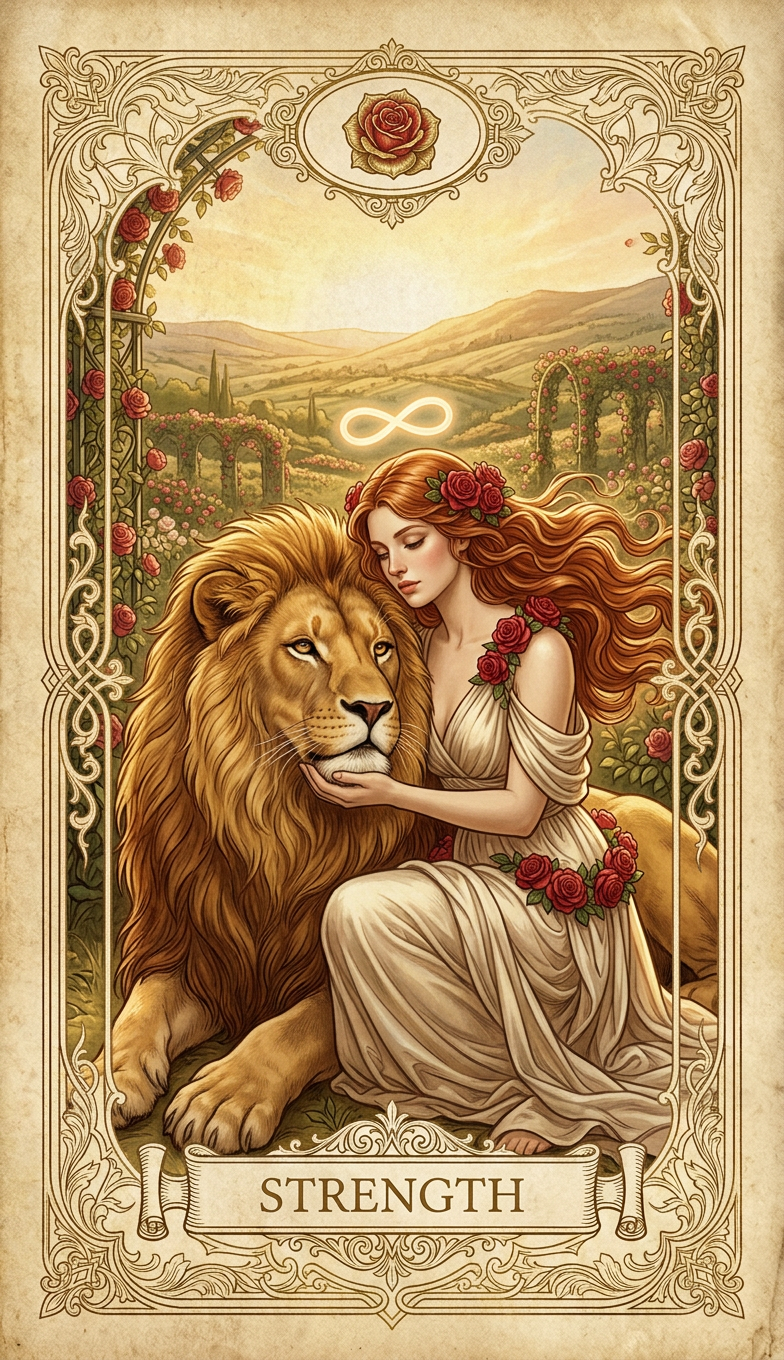
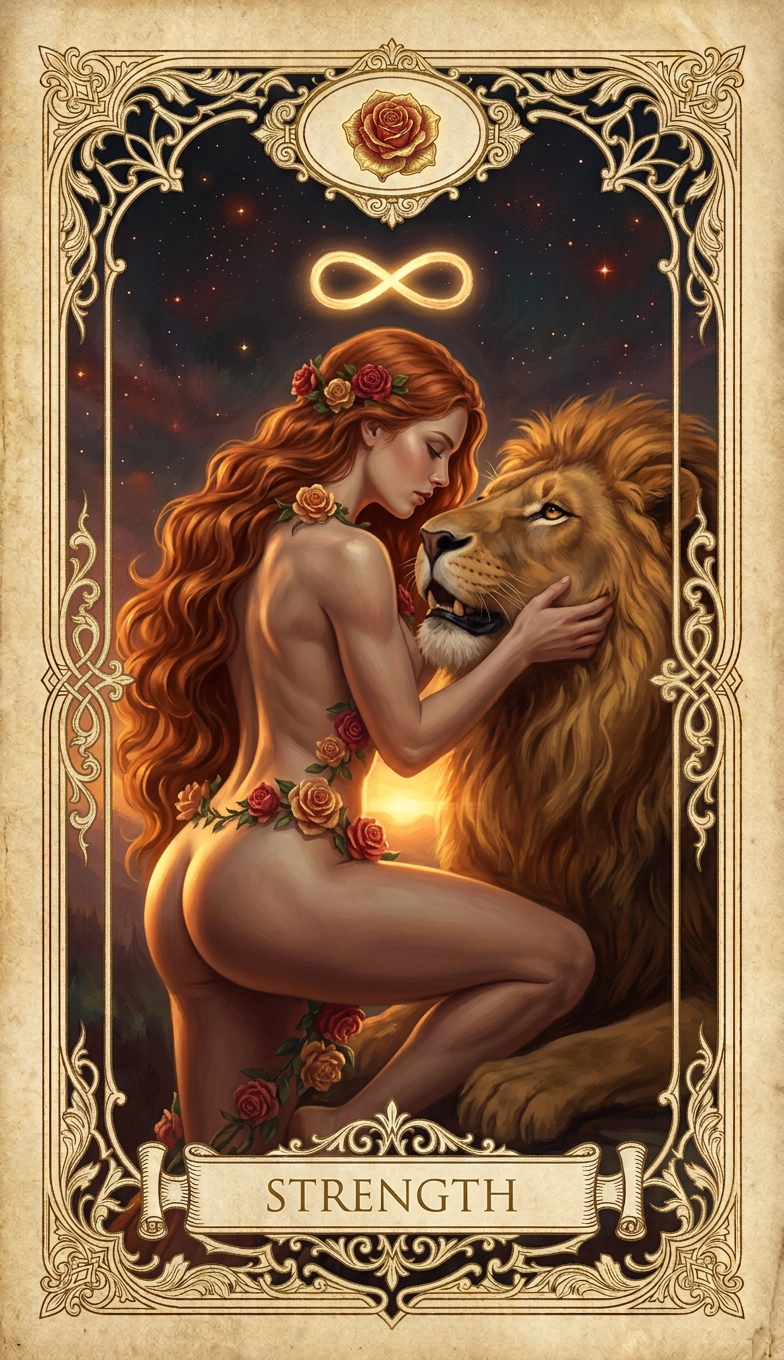
Complete the 22 Major Arcana on the Hermit standard
Redo the final 4 legacy cards: The Fool (00), The Empress (03),
The Sun (19), The World (21) — anchored to The Hermit.
All 22 Major Arcana now follow the Hermit standard (inner image +
outer border, layered depth, sensual fine-art). Frames match the
Hermit at RMSE ~0.020-0.022.

diff --git a/cards/index.html b/cards/index.html
@@ -114,6 +114,22 @@
             </div>
         </div>
         <div class="card-item">
+            <img src="05-hierophant.png" alt="THE HIEROPHANT">
+            <div class="card-details">
+                <div class="card-title">THE HIEROPHANT</div>
+                <div class="card-meta"><strong>Độ tuổi:</strong> 24 years old &bull; <strong>Huy hiệu:</strong> two crossed golden keys</div>
+                <div class="card-scene">a serene 24-year-old female high mystic priestess in rich red-and-gold ceremonial robes, raising one blessing hand, two kneeling female acolytes before her, sacred temple pillars behind</div>
+            </div>
+        </div>
+        <div class="card-item">
+            <img src="06-lovers.png" alt="THE LOVERS">
+            <div class="card-details">
+                <div class="card-title">THE LOVERS</div>
+                <div class="card-meta"><strong>Độ tuổi:</strong> 21 years old &bull; <strong>Huy hiệu:</strong> an apple coiled by a serpent</div>
+                <div class="card-scene">a nude man and a nude woman standing hand in hand beneath a great winged angel, her body turned three-quarters toward the viewer with silk fallen to her hip and his hand at the small of her back, the tree of knowledge with a serpent behind her, the tree of flames behind him</div>
+            </div>
+        </div>
+        <div class="card-item">
             <img src="07-chariot.png" alt="THE CHARIOT">
             <div class="card-details">
                 <div class="card-title">THE CHARIOT</div>
@@ -127,6 +143,70 @@
                 <div class="card-title">STRENGTH</div>
                 <div class="card-meta"><strong>Độ tuổi:</strong> 23 years old &bull; <strong>Huy hiệu:</strong> a red rose</div>
                 <div class="card-scene">a nude woman garlanded with roses, one knee raised, leaning in close to calmly close the jaws of a great golden lion, her bare back arched and her hip lit by low sun, an infinity sign glowing above her head</div>
+            </div>
+        </div>
+        <div class="card-item">
+            <img src="09-hermit.png" alt="THE HERMIT">
+            <div class="card-details">
+                <div class="card-title">THE HERMIT</div>
+                <div class="card-meta"><strong>Độ tuổi:</strong> 23 years old &bull; <strong>Huy hiệu:</strong> a glowing lantern</div>
+                <div class="card-scene">a hermit woman standing on a bare mountain peak under a deep star-filled night sky, holding up a lit lantern with warm golden light pouring out of it, her head and body hooded and wrapped in a single sheet of WHITE TRANSPARENT SILK GAUZE that veils her head and falls in folds around her</div>
+            </div>
+        </div>
+        <div class="card-item">
+            <img src="10-wheel.png" alt="WHEEL OF FORTUNE">
+            <div class="card-details">
+                <div class="card-title">WHEEL OF FORTUNE</div>
+                <div class="card-meta"><strong>Độ tuổi:</strong> 22 years old &bull; <strong>Huy hiệu:</strong> a spoked golden wheel</div>
+                <div class="card-scene">a great spinning wheel of fortune inscribed with mystic letters, a winged female sphinx holding an upright sword atop it, a rising golden serpent on one side and a jackal deity on the other, four winged female watchers at the corners</div>
+            </div>
+        </div>
+        <div class="card-item">
+            <img src="11-justice.png" alt="JUSTICE">
+            <div class="card-details">
+                <div class="card-title">JUSTICE</div>
+                <div class="card-meta"><strong>Độ tuổi:</strong> 24 years old &bull; <strong>Huy hiệu:</strong> balanced golden scales</div>
+                <div class="card-scene">a statuesque bare-shouldered queen, silk sliding off one shoulder to the curve of her breast, a sword upright in one hand and balanced scales in the other, seated on a stone throne between pillars</div>
+            </div>
+        </div>
+        <div class="card-item">
+            <img src="12-hanged.png" alt="THE HANGED MAN">
+            <div class="card-details">
+                <div class="card-title">THE HANGED MAN</div>
+                <div class="card-meta"><strong>Độ tuổi:</strong> 21 years old &bull; <strong>Huy hiệu:</strong> an inverted living branch</div>
+                <div class="card-scene">a serene nude 21-year-old young woman suspended upside-down by one ankle from a living tree shaped like a cross, one leg bent gracefully, a radiant halo of golden light glowing around her head</div>
+            </div>
+        </div>
+        <div class="card-item">
+            <img src="13-death.png" alt="DEATH">
+            <div class="card-details">
+                <div class="card-title">DEATH</div>
+                <div class="card-meta"><strong>Độ tuổi:</strong> 22 years old &bull; <strong>Huy hiệu:</strong> a five-petaled white rose</div>
+                <div class="card-scene">a striking 22-year-old pale female knight in ornate black armor riding a calm pale charger, holding a black banner adorned with a five-petaled white rose, a golden sunrise glowing between twin distant towers</div>
+            </div>
+        </div>
+        <div class="card-item">
+            <img src="14-temperance.png" alt="TEMPERANCE">
+            <div class="card-details">
+                <div class="card-title">TEMPERANCE</div>
+                <div class="card-meta"><strong>Độ tuổi:</strong> 22 years old &bull; <strong>Huy hiệu:</strong> a triangle within a square</div>
+                <div class="card-scene">a graceful winged adult figure with long loosened hair, wearing a sheer antique drape, standing in a THREE-QUARTER VIEW with her body turned toward the viewer, one knee bent with one foot on the rock and the other in the pool, her arms extended to either side pouring water between two golden chalices, irises blooming, warm sepia and ochre light</div>
+            </div>
+        </div>
+        <div class="card-item">
+            <img src="15-devil.png" alt="THE DEVIL">
+            <div class="card-details">
+                <div class="card-title">THE DEVIL</div>
+                <div class="card-meta"><strong>Độ tuổi:</strong> 21 years old &bull; <strong>Huy hiệu:</strong> an inverted pentagram</div>
+                <div class="card-scene">a horned winged female arch-devil upon a dark pedestal; beside her two alluring nude young women arched in golden chains, their bodies glowing in candlelit shadow inside an obsidian cavern</div>
+            </div>
+        </div>
+        <div class="card-item">
+            <img src="16-tower.png" alt="THE TOWER">
+            <div class="card-details">
+                <div class="card-title">THE TOWER</div>
+                <div class="card-meta"><strong>Độ tuổi:</strong> 20 years old &bull; <strong>Huy hiệu:</strong> a jagged lightning bolt</div>
+                <div class="card-scene">a tall stone tower struck by a jagged bolt of lightning, its golden crown toppling in flames, two graceful young women falling through the storm and ash, their bodies illuminated by the brilliant flash</div>
             </div>
         </div>
         <div class="card-item">
@@ -154,11 +234,35 @@
             </div>
         </div>
         <div class="card-item">
+            <img src="20-judgement.png" alt="JUDGEMENT">
+            <div class="card-details">
+                <div class="card-title">JUDGEMENT</div>
+                <div class="card-meta"><strong>Độ tuổi:</strong> 22 years old &bull; <strong>Huy hiệu:</strong> a golden trumpet</div>
+                <div class="card-scene">a radiant winged female angel blowing a golden trumpet with a white banner; below, rising from calm waters, three beautiful nude young women with open arms turning toward the divine light</div>
+            </div>
+        </div>
+        <div class="card-item">
             <img src="21-world.png" alt="THE WORLD">
             <div class="card-details">
                 <div class="card-title">THE WORLD</div>
                 <div class="card-meta"><strong>Độ tuổi:</strong> 22 years old &bull; <strong>Huy hiệu:</strong> a laurel wreath oval</div>
                 <div class="card-scene">a graceful adult woman dancer posed in a sinuous S-curve, one hip thrust out and one knee lifted, her body arched with the head tipped back and her shoulders and back bare, a flowing violet scarf swirling low around her hips and drifting behind her, one slim wand held out in each hand, dancing within a great oval laurel wreath, an angel, an eagle, a lion and a bull at the corners</div>
+            </div>
+        </div>
+        <div class="card-item">
+            <img src="wands-05.png" alt="FIVE OF WANDS">
+            <div class="card-details">
+                <div class="card-title">FIVE OF WANDS</div>
+                <div class="card-meta"><strong>Độ tuổi:</strong> 21 years old &bull; <strong>Huy hiệu:</strong> five wands crossed in a star</div>
+                <div class="card-scene">five athletic young women in light linen wraps engaged in dynamic friendly sparring with five living wands</div>
+            </div>
+        </div>
+        <div class="card-item">
+            <img src="wands-10.png" alt="TEN OF WANDS">
+            <div class="card-details">
+                <div class="card-title">TEN OF WANDS</div>
+                <div class="card-meta"><strong>Độ tuổi:</strong> 23 years old &bull; <strong>Huy hiệu:</strong> ten wands in a bundle</div>
+                <div class="card-scene">a strong young woman carrying a heavy bundle of ten wands toward a distant sunlit castle</div>
             </div>
         </div>
     </div>

diff --git a/scripts/build_prompts.py b/scripts/build_prompts.py
@@ -68,18 +68,19 @@ def build_card_prompt_star_standard(card, use_reference=True):
     extra_text = (" " + " ".join(extra_directives)) if extra_directives else ""
 
     ref_clause = (
-        "built inside the reference frame, matching the EXACT open window display, scale, and lighting style of THE STAR: "
-        "keep the intricate thin golden line-art border in vintage gothic style and aged parchment background texture."
+        "built inside the reference frame, matching the EXACT border, oval medallion, ribbon banner, open window display, scale, and lighting style of THE HERMIT: "
+        "keep the intricate thin golden line-art border in vintage gothic style and aged parchment background texture, and match the Hermit's painterly fine-art inner rendering — warm glowing focal light against deep atmospheric shadow, high contrast, rich detail."
         if use_reference
-        else "ornate vintage gothic tarot card composition matching the open window style of THE STAR."
+        else "ornate vintage gothic tarot card composition matching the open window style of THE HERMIT."
     )
 
     return (
         f"A single tarot card \"{title}\" {ref_clause} "
         f"At the TOP: inside the oval medallion plate, {emblem} in glowing antique gold. "
         f"At the BOTTOM: inside the ribbon banner, the title \"{title}\" in clean antique gold lettering. "
-        f"In the large open center panel (filling the entire inner window edge to edge, matching the open space of The Star without heavy inner arch barriers): "
+        f"In the large open center panel (filling the entire inner window edge to edge and bleeding slightly beneath the golden border, matching the open space of The Hermit without heavy inner arch barriers): "
         f"{scene}.{extra_text} "
+        f"Depth layering: enlarge the scene so its edges extend slightly beneath the inner edge of the golden border, then paint the thin golden line-art border, corner flourishes, oval medallion and ribbon banner ON TOP of the scene edges — foreground ornament overlapping the background content for a strong sense of depth. "
         f"Sensual fine-art anatomy, painterly warm lighting against subtle shadows, rich atmospheric perspective and depth, "
         f"symmetrical golden frame border, perfectly centered, portrait orientation 7:12 aspect ratio, vintage gothic fine-art illustration, high detail."
     )

diff --git a/tarot prompt/00-MASTER-PROMPT.md b/tarot prompt/00-MASTER-PROMPT.md
@@ -2,34 +2,38 @@
 
 Bản chuẩn hóa quy chuẩn tạo hình và bố cục toàn bộ 78 lá bài Tarot:
 
-1. **Quy chuẩn hiển thị nội dung (Visual Anchor Standard — THE STAR)**:
-   * Lấy lá **`cards/17-the-star.png`** làm quy chuẩn hiển thị nội dung cho toàn bộ bộ bài.
+1. **Quy chuẩn hiển thị nội dung & khung viền (Visual Anchor Standard — THE HERMIT)**:
+   * Lấy lá **`cards/09-hermit.png`** làm quy chuẩn DUY NHẤT cho toàn bộ bộ bài — chuẩn cho cả **phần ảnh bên trong** lẫn **phần viền bên ngoài**.
+   * **Phần viền ngoài**: khung viền mạ vàng Gothic mỏng, sắc nét, đối xứng hoàn hảo trên nền giấy da cổ (*aged parchment*).
+   * **Phần ảnh bên trong**: phong cách hội họa fine-art của The Hermit — nguồn sáng ấm tập trung (ánh vàng kim) trên nền tối khí quyển, tương phản cao, chiều sâu không gian lùi dần về hậu cảnh, chi tiết sắc nét. Mỗi lá vẫn giữ bối cảnh và bảng màu riêng của mình, chỉ chuẩn hóa về chất lượng nét vẽ, cách đổ sáng và độ chi tiết theo The Hermit.
    * Vùng hiển thị nội dung mở rộng tối đa, phủ kín toàn bộ vòm trung tâm từ mép này sang mép kia của khung viền Gothic mỏng.
    * **Loại bỏ cổng vòm / cột đá phụ chiếm diện tích**: Không dùng cột đá nhân tạo đóng khung gò bó, để không gian khoáng đạt, tự nhiên theo đúng bối cảnh của từng lá bài.
 
 2. **Quy chuẩn tạo hình nhân vật (Sensual Fine-Art Figure Standard)**:
-   * Kế thừa phong cách tạo hình sống động, gợi cảm và cổ điển từ tài liệu gốc `01-CARD-TABLE.md` (hình mẫu tiêu biểu như lá **The Empress**: *"a voluptuous nude empress, one breast bared, a crown of flowers in loosened hair, reclining on a velvet throne amid ripe golden wheat and fruits, a heart-shaped shield of Venus leaning beside her"*).
+   * Kế thừa phong cách tạo hình sống động, gợi cảm và cổ điển từ tài liệu gốc `01-CARD-TABLE.md`.
    * **100% Nhân vật nữ** trong độ tuổi thanh xuân từ **18 đến 25 tuổi**.
    * Mỗi lá bài giữ nét đặc trưng độc bản về vóc dáng (*slender, voluptuous, athletic, statuesque*), mái tóc và thần thái.
 
 3. **Cấu trúc 4 Lớp Chiều Sâu (4-Layer Depth)**:
    * **Lớp 1 (Nền)**: Giấy da cổ (*Aged parchment/vellum*) nhuốm màu thời gian sepia ấm áp.
-   * **Lớp 2 (Nội dung)**: Phối cảnh tự nhiên, thoáng đãng với ánh sáng ấm áp và chiều sâu không gian lùi dần về hậu cảnh.
-   * **Lớp 3 (Khung viền)**: Khung viền mạ vàng Gothic mỏng, sắc nét, đối xứng hoàn hảo.
+   * **Lớp 2 (Nội dung)**: Phối cảnh tự nhiên, thoáng đãng với ánh sáng ấm áp và chiều sâu không gian lùi dần về hậu cảnh. **Nội dung được PHÓNG TO, tràn nhẹ xuống dưới mép trong của khung viền vàng.**
+   * **Lớp 3 (Khung viền)**: Khung viền mạ vàng Gothic mỏng, sắc nét, đối xứng hoàn hảo — **lấy chuẩn từ lá The Hermit**. **Hoa văn viền vàng ĐÈ LÊN TRÊN mép nội dung (foreground ornament over background scene) để tạo chiều sâu phân lớp.**
    * **Lớp 4 (Huy hiệu & Tên)**: Oval Medallion ở đỉnh chứa huy hiệu mạ vàng + Dải ruy băng cuộn ở đáy chứa tên lá bài.
 
 ---
 
-## Master Prompt Template (Chuẩn The Star)
+## Master Prompt Template (Chuẩn The Hermit)
 
 ```text
-A single tarot card "{TITLE}" built inside the reference frame, matching the EXACT open window display, scale, and lighting style of THE STAR: keep the intricate thin golden line-art border in vintage gothic style and aged parchment background texture.
+A single tarot card "{TITLE}" built inside the reference frame, matching the EXACT border, oval medallion, ribbon banner, open window display, scale, and lighting style of THE HERMIT: keep the intricate thin golden line-art border in vintage gothic style and aged parchment background texture, and match the Hermit's painterly fine-art inner rendering — warm glowing focal light against deep atmospheric shadow, high contrast, rich detail.
 
 At the TOP: inside the oval medallion plate, {EMBLEM} in glowing antique gold.
 At the BOTTOM: inside the ribbon banner, the title "{TITLE}" in clean antique gold lettering.
 
-In the large open center panel (filling the entire inner window edge to edge, matching the open space of The Star without heavy inner arch barriers):
+In the large open center panel (filling the entire inner window edge to edge and bleeding slightly beneath the golden border, matching the open space of The Hermit without heavy inner arch barriers):
 {SCENE}. {CHARACTER_SPECIFICATION} {COUNT_LOCK}
+
+Depth layering: enlarge the scene so its edges extend slightly beneath the inner edge of the golden border, then paint the thin golden line-art border, corner flourishes, oval medallion and ribbon banner ON TOP of the scene edges — foreground ornament overlapping the background content for a strong sense of depth.
 
 Sensual fine-art anatomy, painterly warm lighting against subtle shadows, rich atmospheric perspective and depth, symmetrical golden frame border, perfectly centered, portrait orientation 7:12 aspect ratio, vintage gothic fine-art illustration, high detail.
 ```

diff --git a/tarot prompt/template.md b/tarot prompt/template.md
@@ -1,9 +1,11 @@
-A single tarot card "{TITLE}" built inside the reference frame, matching the EXACT open window display, scale, and lighting style of THE STAR: keep the intricate thin golden line-art border in vintage gothic style and aged parchment background texture.
+A single tarot card "{TITLE}" built inside the reference frame, matching the EXACT border, oval medallion, ribbon banner, open window display, scale, and lighting style of THE HERMIT: keep the intricate thin golden line-art border in vintage gothic style and aged parchment background texture, and match the Hermit's painterly fine-art inner rendering — warm glowing focal light against deep atmospheric shadow, high contrast, rich detail.
 
 At the TOP: inside the oval medallion plate, {EMBLEM} in glowing antique gold.
 At the BOTTOM: inside the ribbon banner, the title "{TITLE}" in clean antique gold lettering.
 
-In the large open center panel (filling the entire inner window edge to edge, matching the open space of The Star without heavy inner arch barriers):
+In the large open center panel (filling the entire inner window edge to edge and bleeding slightly beneath the golden border, matching the open space of The Hermit without heavy inner arch barriers):
 {SCENE}. {CHARACTER_SPECIFICATION} {COUNT_LOCK}
+
+Depth layering: enlarge the scene so its edges extend slightly beneath the inner edge of the golden border, then paint the thin golden line-art border, corner flourishes, oval medallion and ribbon banner ON TOP of the scene edges — foreground ornament overlapping the background content for a strong sense of depth.
 
 Sensual fine-art anatomy, painterly warm lighting against subtle shadows, rich atmospheric perspective and depth, symmetrical golden frame border, perfectly centered, portrait orientation 7:12 aspect ratio, vintage gothic fine-art illustration, high detail.
